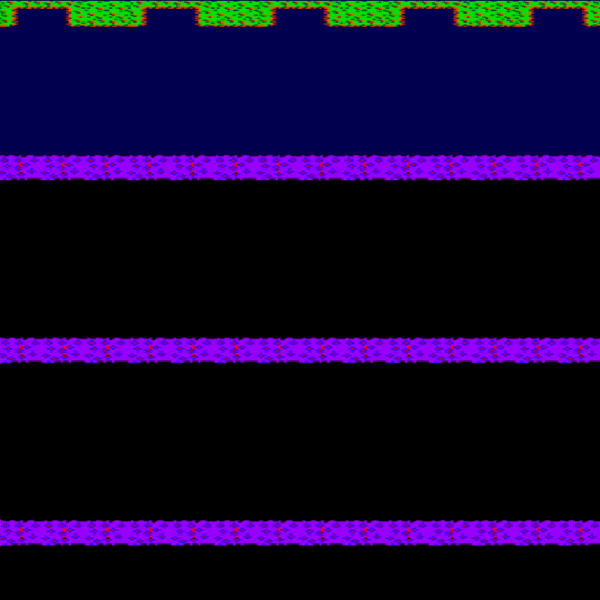
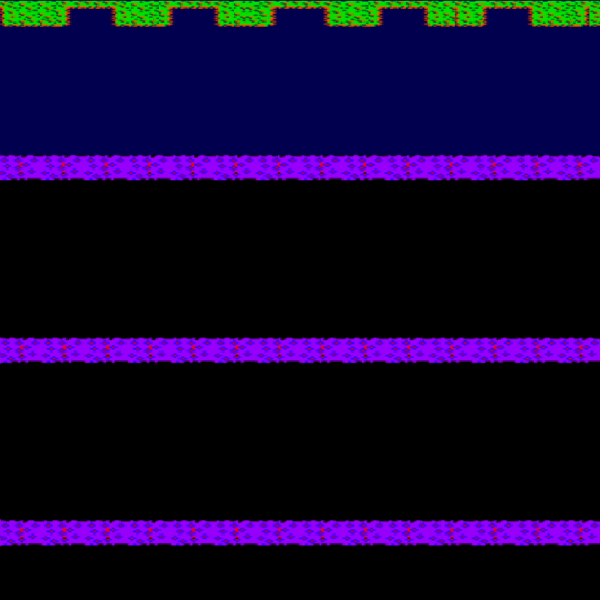
timer

Changed region(s): [[0.0, 0.0, 0.42, 0.06], [0.6, 0.0, 0.99, 0.06]]

diff --git a/source/main.cpp b/source/main.cpp
@@ -131,9 +131,10 @@ void init(){
 //Calls update 5 times a second
 void animate()
 {
+    
     if(glfwGetTime() > 0.2){
-        timer.timer_vert[1].x+=0.01;
-        timer.timer_vert[3].x+=0.01;
+        timer.timer_vert[1].x+=0.1;
+        timer.timer_vert[3].x+=0.1;
         glfwSetTime(0.0);
         if(number_of_deaths<3) {
           frog.update_state();
@@ -143,22 +144,19 @@ void animate()
                 (*it).update_state();
             }
           }
-          // Checking if frog has reached goal
-          //if(frog->state.ypos==22){
-            // Check each
-          //}
-          //obstacle.update_state();
-          int curRow = frog.state.ypos;
-          bool dead = died(frog, rows[curRow]);
-          if(dead){
-            frog.state.xpos = 11;
-            frog.state.ypos = 2;
-            frog.frog_vert[0] = vec2( 12.0, 2.0 );
-            frog.frog_vert[1] = vec2( 11.0, 2.0 );
-            frog.frog_vert[2] = vec2( 12.0, 3.0 );
-            frog.frog_vert[3] = vec2( 11.0, 3.0 );
-          }
-       //   updateTimer();
+            int curRow = frog.state.ypos;
+            bool dead = died(frog, rows[curRow]) || timer.timer_vert[1].x>22.9 || timer.timer_vert[3].x>22.9;
+            if(dead){
+              frog.state.xpos = 11;
+              frog.state.ypos = 2;
+              frog.frog_vert[0] = vec2( 12.0, 2.0 );
+              frog.frog_vert[1] = vec2( 11.0, 2.0 );
+              frog.frog_vert[2] = vec2( 12.0, 3.0 );
+              frog.frog_vert[3] = vec2( 11.0, 3.0 );
+                
+              timer.timer_vert[1] = vec2(11.0,0.0);
+              timer.timer_vert[3] = vec2( 11.0 , 1.0);
+            }
         } else {
             endGame();
           // TODO: move frog to start of level
@@ -289,6 +287,14 @@ int main(void)
     // Draw all the sprites here
       background.gl_init();
       background.draw(proj);
+      for(int i=0; i<23; i++){
+          for(std::vector<Obstacle>::iterator it = rows[i].begin(); it != rows[i].end(); it++){
+              // Draw all obstacles
+              (*it).gl_init();
+              (*it).draw(proj);
+          }
+      }
+
       
       frog.gl_init();
       frog.draw(proj);
@@ -301,14 +307,7 @@ int main(void)
       timer.draw(proj);
       
       // Drawing obstacles
-      for(int i=0; i<23; i++){
-          for(std::vector<Obstacle>::iterator it = rows[i].begin(); it != rows[i].end(); it++){
-              // Draw all obstacles
-              (*it).gl_init();
-              (*it).draw(proj);
-          }
-      }
-
+      
     glfwSwapBuffers(window);
     glfwPollEvents();
     

diff --git a/source/Background.cpp b/source/Background.cpp
@@ -101,7 +101,7 @@ void Background::gl_init(){
   glLinkProgram(GLvars.program);
   check_program_link(GLvars.program);
 glUseProgram(GLvars.program);
-  glBindFragDataLocation(GLvars.program, 0, "fragColor2");
+  glBindFragDataLocation(GLvars.program, 0, "fragColor3");
   
   GLvars.vpos_location   = glGetAttribLocation(GLvars.program, "vPos");
   GLvars.vtex_location = glGetAttribLocation(GLvars.program, "vTexCoord" );

diff --git a/source/utils/SourcePath.cpp b/source/utils/SourcePath.cpp
@@ -6,4 +6,4 @@
 
 #include "SourcePath.h"
 
-std::string source_path = "/Users/chenyuzhao/Desktop/frogger";
+std::string source_path = "/Users/reaganesteves/Documents/GitHub/frogger";
